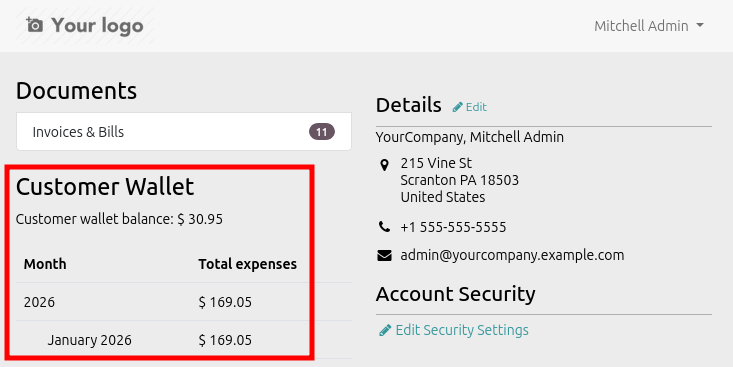
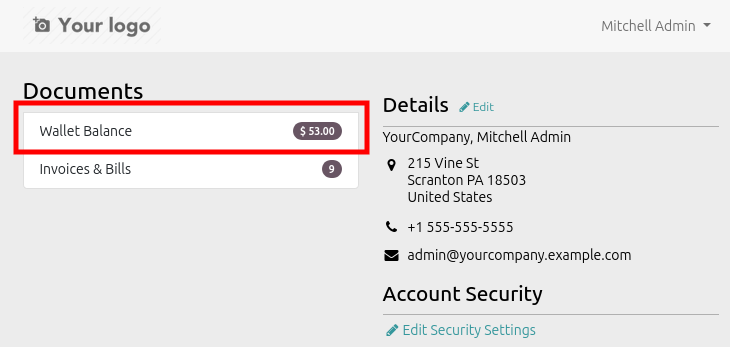
[DOC] customer_wallet_portal: finish description and update translation

diff --git a/customer_wallet_portal/static/description/index.html b/customer_wallet_portal/static/description/index.html
@@ -370,17 +370,16 @@ ul.auto-toc {
 !! source digest: sha256:c02b5fd52d7e46dd81e7a779c506d099485a25beb86ce187dba06cfe819bb2f5
 !!!!!!!!!!!!!!!!!!!!!!!!!!!!!!!!!!!!!!!!!!!!!!!!!!!! -->
 <p><a class="reference external image-reference" href="https://odoo-community.org/page/development-status"><img alt="Beta" src="https://img.shields.io/badge/maturity-Beta-yellow.png" /></a> <a class="reference external image-reference" href="http://www.gnu.org/licenses/agpl-3.0-standalone.html"><img alt="License: AGPL-3" src="https://img.shields.io/badge/licence-AGPL--3-blue.png" /></a> <a class="reference external image-reference" href="https://github.com/coopiteasy/addons/tree/16.0/customer_wallet_portal"><img alt="coopiteasy/addons" src="https://img.shields.io/badge/github-coopiteasy%2Faddons-lightgray.png?logo=github" /></a></p>
-<p>My Home displays expenditures using customer wallet.</p>
+<p>My Home displays customer wallet amount and details.</p>
 <p><strong>Table of contents</strong></p>
 <div class="contents local topic" id="contents">
 <ul class="simple">
 <li><a class="reference internal" href="#usage" id="toc-entry-1">Usage</a></li>
-<li><a class="reference internal" href="#known-issues-roadmap" id="toc-entry-2">Known issues / Roadmap</a></li>
-<li><a class="reference internal" href="#bug-tracker" id="toc-entry-3">Bug Tracker</a></li>
-<li><a class="reference internal" href="#credits" id="toc-entry-4">Credits</a><ul>
-<li><a class="reference internal" href="#authors" id="toc-entry-5">Authors</a></li>
-<li><a class="reference internal" href="#contributors" id="toc-entry-6">Contributors</a></li>
-<li><a class="reference internal" href="#maintainers" id="toc-entry-7">Maintainers</a></li>
+<li><a class="reference internal" href="#bug-tracker" id="toc-entry-2">Bug Tracker</a></li>
+<li><a class="reference internal" href="#credits" id="toc-entry-3">Credits</a><ul>
+<li><a class="reference internal" href="#authors" id="toc-entry-4">Authors</a></li>
+<li><a class="reference internal" href="#contributors" id="toc-entry-5">Contributors</a></li>
+<li><a class="reference internal" href="#maintainers" id="toc-entry-6">Maintainers</a></li>
 </ul>
 </li>
 </ul>
@@ -390,23 +389,21 @@ ul.auto-toc {
 <ul class="simple">
 <li>Go your portal home page.</li>
 </ul>
-<p>A new section is available that shows the details of the expenses done with the journal wallet.</p>
+<p>A new section is available that shows the customer wallet amount.</p>
 <blockquote>
 <div class="figure">
 <img alt="https://raw.githubusercontent.com/coopiteasy/addons/16.0/customer_wallet_portal/static/description/portal_home.png" src="https://raw.githubusercontent.com/coopiteasy/addons/16.0/customer_wallet_portal/static/description/portal_home.png" />
 </div>
 </blockquote>
+<p>If user click on the new item, he can see the details of all the moves.</p>
+<blockquote>
+<div class="figure">
+<img alt="https://raw.githubusercontent.com/coopiteasy/addons/16.0/customer_wallet_portal/static/description/portal_wallet_detail.png" src="https://raw.githubusercontent.com/coopiteasy/addons/16.0/customer_wallet_portal/static/description/portal_wallet_detail.png" />
 </div>
-<div class="section" id="known-issues-roadmap">
-<h1><a class="toc-backref" href="#toc-entry-2">Known issues / Roadmap</a></h1>
-<ul class="simple">
-<li>adapt the portal to the Odoo convention: Add dedicated menu entry for customer wallet.</li>
-<li>Display all moves that generates the wallet amount. For the time being, the list is
-wrong if point_of_sale is installed, and incomplete in all case, as there is no credit moves.</li>
-</ul>
+</blockquote>
 </div>
 <div class="section" id="bug-tracker">
-<h1><a class="toc-backref" href="#toc-entry-3">Bug Tracker</a></h1>
+<h1><a class="toc-backref" href="#toc-entry-2">Bug Tracker</a></h1>
 <p>Bugs are tracked on <a class="reference external" href="https://github.com/coopiteasy/addons/issues">GitHub Issues</a>.
 In case of trouble, please check there if your issue has already been reported.
 If you spotted it first, help us to smash it by providing a detailed and welcomed
@@ -414,16 +411,16 @@ If you spotted it first, help us to smash it by providing a detailed and welcome
 <p>Do not contact contributors directly about support or help with technical issues.</p>
 </div>
 <div class="section" id="credits">
-<h1><a class="toc-backref" href="#toc-entry-4">Credits</a></h1>
+<h1><a class="toc-backref" href="#toc-entry-3">Credits</a></h1>
 <div class="section" id="authors">
-<h2><a class="toc-backref" href="#toc-entry-5">Authors</a></h2>
+<h2><a class="toc-backref" href="#toc-entry-4">Authors</a></h2>
 <ul class="simple">
 <li>Coop IT Easy SC</li>
 <li>GRAP</li>
 </ul>
 </div>
 <div class="section" id="contributors">
-<h2><a class="toc-backref" href="#toc-entry-6">Contributors</a></h2>
+<h2><a class="toc-backref" href="#toc-entry-5">Contributors</a></h2>
 <ul class="simple">
 <li><a class="reference external" href="https://coopiteasy.be">Coop IT Easy SC</a>:<ul>
 <li>Carmen Bianca BAKKER</li>
@@ -436,7 +433,7 @@ If you spotted it first, help us to smash it by providing a detailed and welcome
 </ul>
 </div>
 <div class="section" id="maintainers">
-<h2><a class="toc-backref" href="#toc-entry-7">Maintainers</a></h2>
+<h2><a class="toc-backref" href="#toc-entry-6">Maintainers</a></h2>
 <p>Current maintainers:</p>
 <p><a class="reference external image-reference" href="https://github.com/carmenbianca"><img alt="carmenbianca" src="https://github.com/carmenbianca.png?size=40px" /></a> <a class="reference external image-reference" href="https://github.com/legalsylvain"><img alt="legalsylvain" src="https://github.com/legalsylvain.png?size=40px" /></a></p>
 <p>This module is part of the <a class="reference external" href="https://github.com/coopiteasy/addons/tree/16.0/customer_wallet_portal">coopiteasy/addons</a> project on GitHub.</p>

diff --git a/customer_wallet_portal/README.rst b/customer_wallet_portal/README.rst
@@ -22,7 +22,7 @@ Portal Customer Wallet
 
 |badge1| |badge2| |badge3|
 
-My Home displays expenditures using customer wallet.
+My Home displays customer wallet amount and details.
 
 **Table of contents**
 
@@ -34,17 +34,13 @@ Usage
 
 * Go your portal home page.
 
-A new section is available that shows the details of the expenses done with the journal wallet.
+A new section is available that shows the customer wallet amount.
 
   .. figure:: https://raw.githubusercontent.com/coopiteasy/addons/16.0/customer_wallet_portal/static/description/portal_home.png
 
-Known issues / Roadmap
-======================
+If user click on the new item, he can see the details of all the moves.
 
-* adapt the portal to the Odoo convention: Add dedicated menu entry for customer wallet.
-
-* Display all moves that generates the wallet amount. For the time being, the list is
-  wrong if point_of_sale is installed, and incomplete in all case, as there is no credit moves.
+  .. figure:: https://raw.githubusercontent.com/coopiteasy/addons/16.0/customer_wallet_portal/static/description/portal_wallet_detail.png
 
 Bug Tracker
 ===========

diff --git a/customer_wallet_portal/readme/USAGE.rst b/customer_wallet_portal/readme/USAGE.rst
@@ -1,5 +1,9 @@
 * Go your portal home page.
 
-A new section is available that shows the details of the expenses done with the journal wallet.
+A new section is available that shows the customer wallet amount.
 
   .. figure:: ../static/description/portal_home.png
+
+If user click on the new item, he can see the details of all the moves.
+
+  .. figure:: ../static/description/portal_wallet_detail.png

diff --git a/customer_wallet_portal/readme/DESCRIPTION.rst b/customer_wallet_portal/readme/DESCRIPTION.rst
@@ -1,1 +1,1 @@
-My Home displays expenditures using customer wallet.
+My Home displays customer wallet amount and details.
